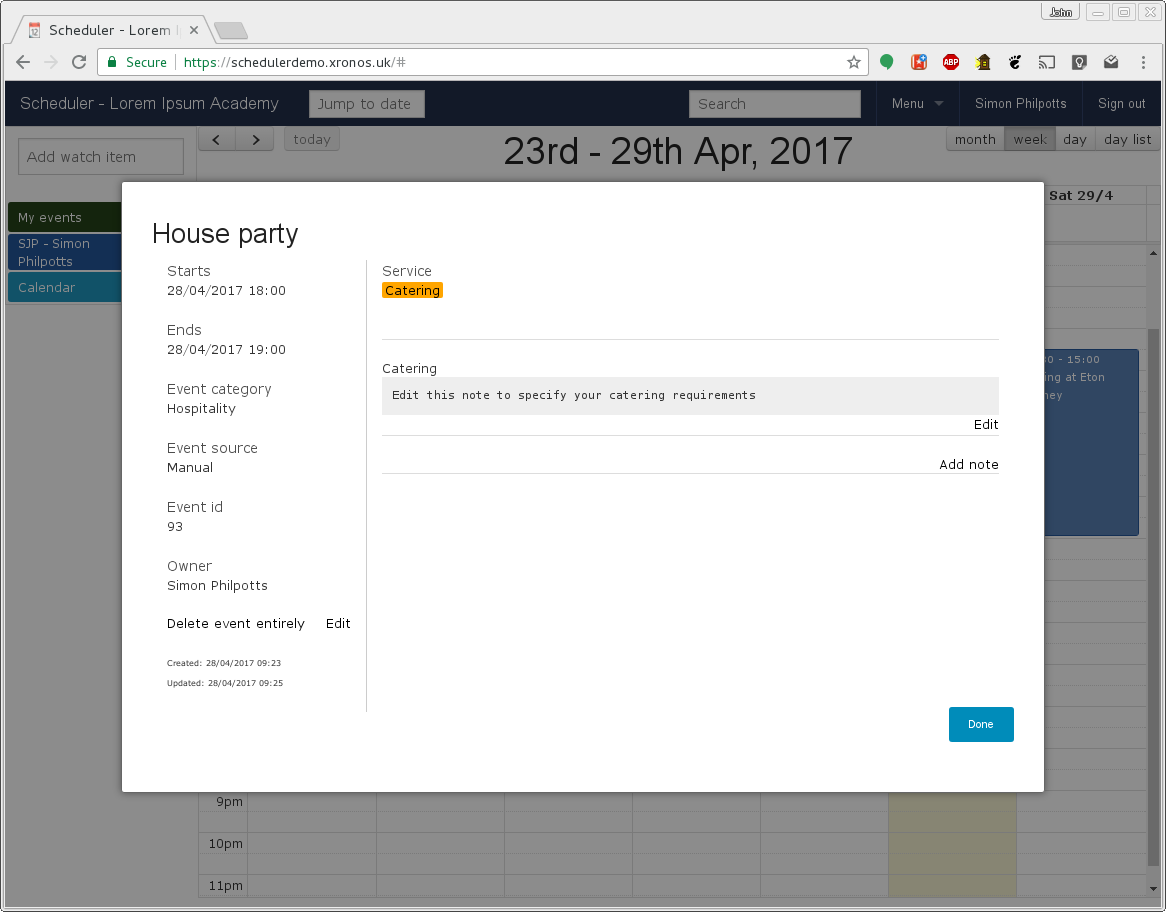
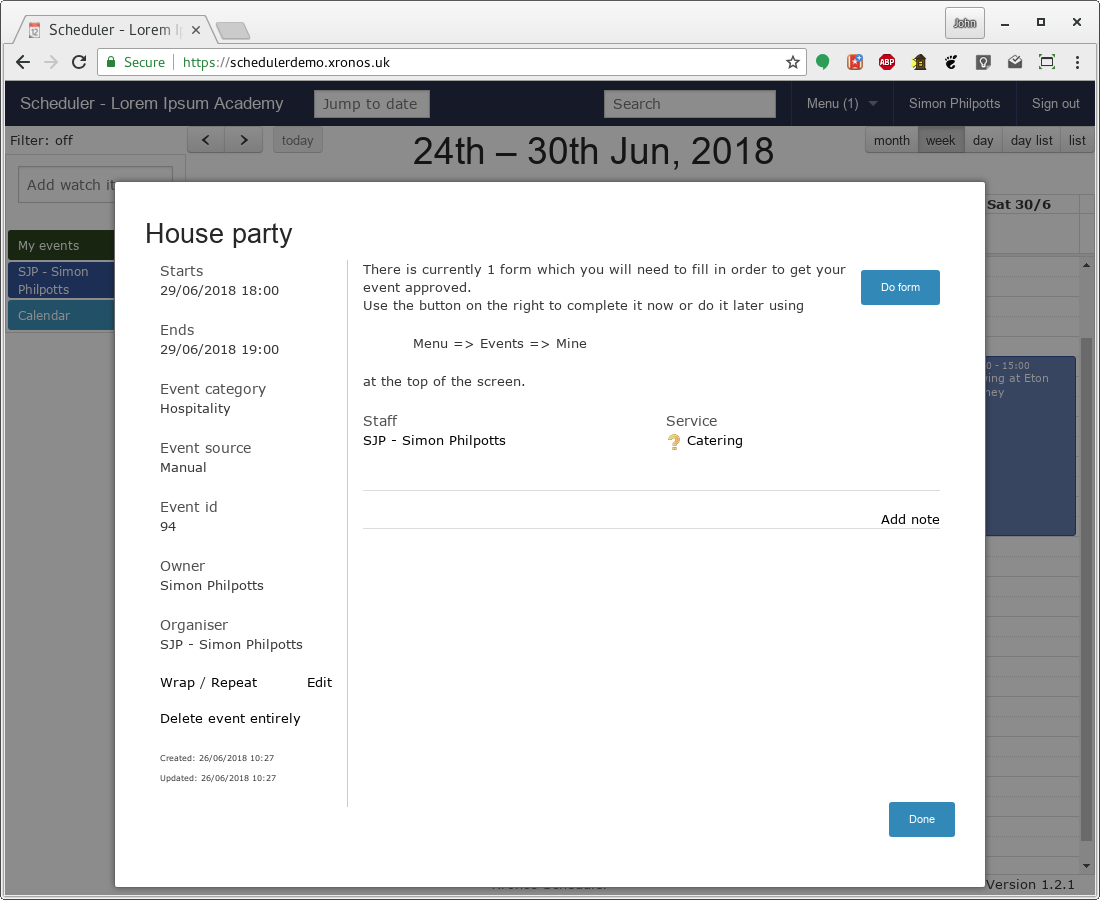
Add forms to event entering.

diff --git a/events.rst b/events.rst
@@ -74,11 +74,17 @@ Once you click on the Create button, the dialogue changes slightly -
 a new field appears at the bottom.  The event now exists, and resources
 can be assigned to it.
 
+Simon Philpotts has been added to the event automatically.
+This is a user-selectable setting which to start with is switched on -
+every time you create a new event you are auto-added as one of its
+resources.  To switch if off, click on your name in the coloured
+block in the left hand column, and then un-tick the "Auto add" box.
+
 .. image:: enterevent3.png
    :scale: 75%
    :align: center
 
-Note that there is only a single field for adding resources.  You
+There is only a single field for adding resources.  You
 can type there the name of any resource - staff member, pupil, room,
 location, service, property or group - and the system will assist
 you by auto-completing it.  As you add resources, they are sorted into
@@ -110,17 +116,32 @@ attempted to add "Calendar" as a property to his event.
    :scale: 75%
    :align: center
 
-It has appeared, but it's highlighted in orange.  This indicates that
+It has appeared, it has an orange question mark in front of it.
+This indicates that
 approval is needed before the event will actually appear in the
 school calendar.  The relevant people will have been notified, and
 once the event has been approved it will then appear.  For now, only
-Simon Philpotts will be able to see it in the context of the Calendar.
+some users will be able to see it in the context of the Calendar.
+
+.. note::
+   Who exactly can see un-approved events like this is under the control
+   of the system administrator.  Typically it might be staff, but
+   not pupils or the general public.  For those who can see the event,
+   it will appear greyed out to indicate that it is still tentative.
+
 
 See also
 :ref:`Specifying Requirements <specifying-requirements>` below.
 
 To finish off editing the event, click on the Update button and you
 will be taken to a dialogue showing full details of the event.
+
+.. image:: enterevent4a.png
+   :scale: 75%
+   :align: center
+
+And then if you click the "Done" button the dialogue closes and you're
+back to the main calendar display.
 
 .. image:: enterevent5.png
    :scale: 75%
@@ -197,36 +218,85 @@ editing the event (clicks on "Update), the following screen is displayed.
    :scale: 75%
    :align: center
 
-A note has been added automatically to the event, prompting the user
-to provide more details.
+There is a form which the user needs to fill in to specify the exact
+catering requirements.  You can either go to the form immediately
+from here using the "Do form" button, or you can do it later on
+from the menu in the main screen.
 
-Clicking the link to edit the note produces a more detailed prompt
-explaining what information is needed.  The requester can fill in
-whatever is required, and then the catering department will receive
-all this subsidiary information along with the basic request.
+Note also that a "(1)" has appeared next to the main menu button in
+the top bar - this is to tell Simon Philpotts that there is one item
+(the form) awaiting his attention.  Whenever you see this in the menu
+you can find the item by following the numbers down through the pop-down 
+menu.
+
+.. image:: cateringrequest2a.png
+   :scale: 75%
+   :align: center
+
+Here we can see that the item is under Menu => Events => Mine, and
+clicking on that menu item brings up the following screen.
 
 .. image:: cateringrequest3.png
    :scale: 75%
    :align: center
 
-The user can then enter a detailed description of what is required,
-and this will be forwarded to the catering department along with
-the request.
+There are two events listed - the two which we've just entered.
+However, the number displayed was only 1 - this is because only
+one of these events is awaiting input from Simon Philpotts.
+
+Note the little arrow in the "Action" column.  This will appear against
+any event which requires action from the user.  The forms column says
+there is a form to fill in, and clicking on the "To fill in" link
+will bring up the relevant form.
 
 .. image:: cateringrequest4.png
    :scale: 75%
    :align: center
 
-As before, the requester will get a response from the catering department
-indicating whether the request is feasible.  If it can't be done, the
-requester can potentially adjust the request, and it will be sent back
-to the catering department again automatically.
+The exact design of each form is under the control of your system
+administrator and/or the controller of the resource - in this case
+the catering department.  There are a wide range of possible field
+types and this example shows just a few.
 
-Note that the requester's description of what is needed is assumed to
-be part of the confirmed request.  If after the request has been agreed
-the requester subsequently changes the requirements, the status will
-automatically revert to being amber, and fresh approval will be needed
-from the catering department.
+Note that two fields have asterisks against them, indicating that they
+are compulsory fields.  One is a pop down list to choose from, and one
+gives a yes/no choice.
+
+Once you have filled in the form and saved it, you are returned to
+the event listing screen.
+
+.. image:: cateringrequest5.png
+   :scale: 75%
+   :align: center
+
+The form is now shown as being complete, and your count of outstanding
+actions has gone down to (0).  The form and event have now been passed
+to the catering department for approval, and the requester will be
+notified when they have dealt with it.
+
+There are three possible responses which you might get to a request
+like this:
+
+* Approved
+* Rejected
+* Noted / held
+
+The first one is self-explanatory.  The second one should come back
+with a reason, (e.g. "Sorry - we're already fully-booked for that night.")
+whilst the third one is generally an indication that more information
+is needed.  For instance, you might have entered "80 to 120" as the number
+of people for whom you need catering.  The catering department thus
+knows about your request - a good thing - but they need you to firm up
+the numbers in advance of the actual event.  They thus pass it back to
+you with a "Noted" status, and it's up to you to fill the rest in
+when you can.
+
+Once a request has been approved, you can no longer change the contents
+of the corresponding form.
+
+---------------
+More than forms
+---------------
 
 It's possible that the extra information needed is too sensitive to
 be stored in a relatively public system like Scheduler, or too complicated
